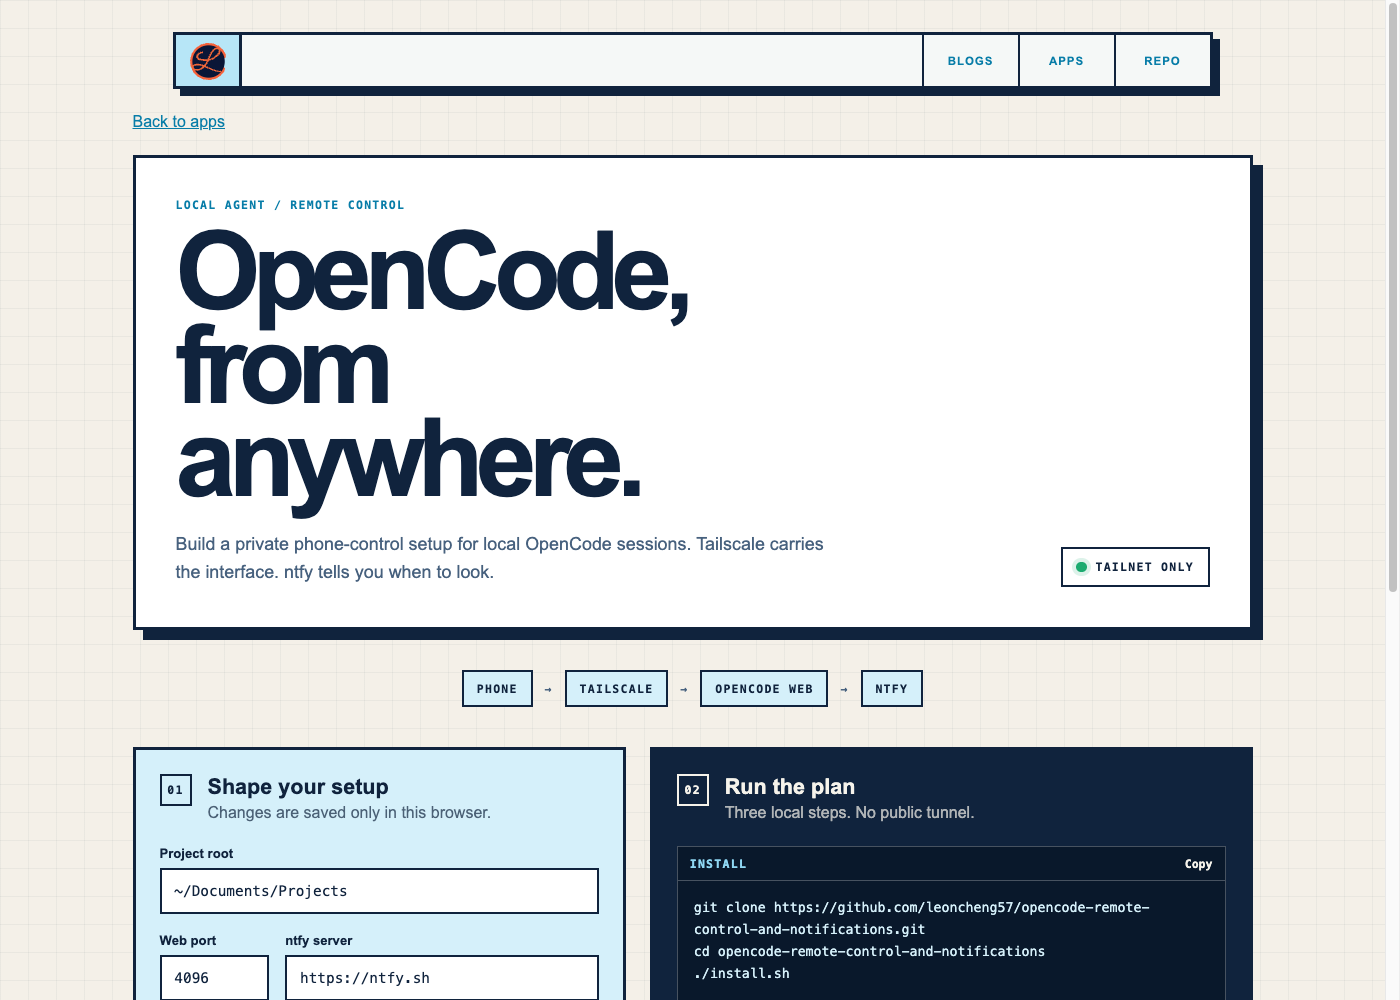
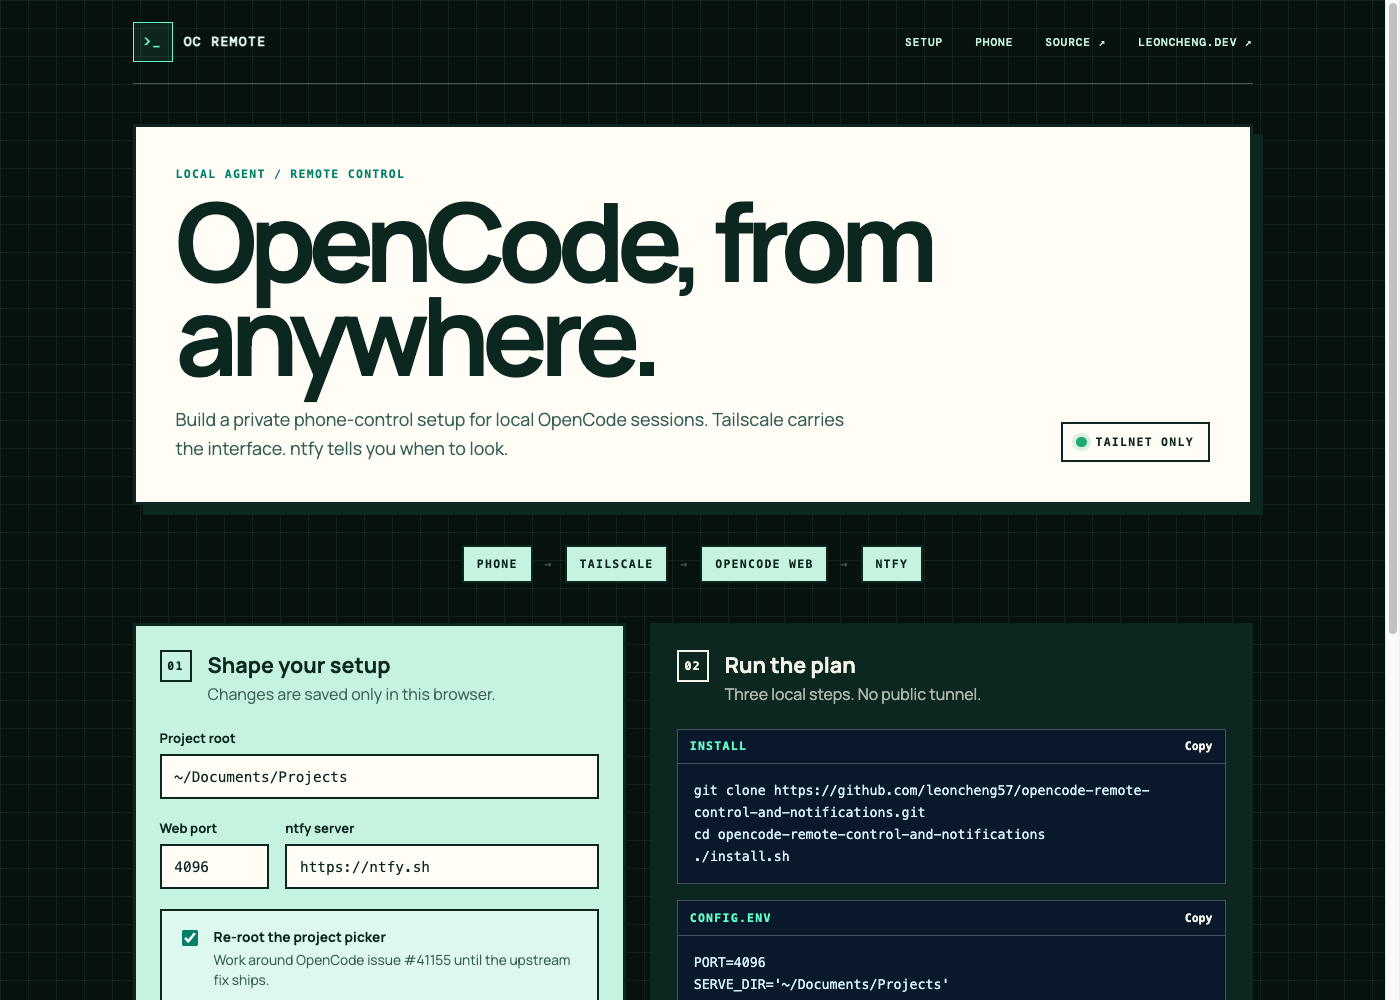
style: give OpenCode remote app its own product shell

diff --git a/src/features/apps/opencode-remote-control/opencode-remote-control.module.css b/src/features/apps/opencode-remote-control/opencode-remote-control.module.css
@@ -1,11 +1,26 @@
+@import url('https://fonts.googleapis.com/css2?family=DM+Mono:wght@400;500&family=Manrope:wght@400;600;700;800&display=swap');
+
 .page {
+  --bg: #07110e;
+  --surface: #f5f1e7;
+  --surface-raised: #fffdf6;
+  --text-primary: #0c2620;
+  --text-muted: #355e54;
+  --hr-color: #0c2620;
+  --link-color: #007f69;
+  --link-hover-color: #005f50;
+  --accent-soft: #c5f3df;
+  --accent-mid: #73dfbd;
+  --accent-strong: #5fffc9;
   min-height: 100vh;
-  padding: 2rem 1rem 5rem;
+  padding: 0 1rem 5rem;
   background:
-    linear-gradient(rgba(16, 35, 61, 0.045) 1px, transparent 1px),
-    linear-gradient(90deg, rgba(16, 35, 61, 0.045) 1px, transparent 1px),
+    linear-gradient(rgba(197, 243, 223, 0.07) 1px, transparent 1px),
+    linear-gradient(90deg, rgba(197, 243, 223, 0.07) 1px, transparent 1px),
     var(--bg);
   background-size: 28px 28px;
+  color: var(--text-primary);
+  font-family: 'Manrope', sans-serif;
 }
 
 .page a {
@@ -17,8 +32,55 @@
   margin: 0 auto;
 }
 
-.backLink {
-  margin: 1.5rem 0;
+.productNav {
+  position: relative;
+  z-index: 2;
+  display: flex;
+  align-items: center;
+  justify-content: space-between;
+  width: min(100%, 70rem);
+  margin: 0 auto;
+  padding: 1.35rem 0;
+  border-bottom: 1px solid rgba(197, 243, 223, 0.32);
+  color: #e9fff6;
+}
+
+.brand {
+  display: flex;
+  gap: 0.7rem;
+  align-items: center;
+  color: #e9fff6 !important;
+  font: 800 0.82rem 'DM Mono', monospace;
+  letter-spacing: 0.1em;
+  text-decoration: none;
+}
+
+.brandMark {
+  display: grid;
+  width: 2.5rem;
+  height: 2.5rem;
+  border: 1px solid var(--accent-strong);
+  background: rgba(95, 255, 201, 0.08);
+  color: var(--accent-strong);
+  place-items: center;
+}
+
+.navLinks {
+  display: flex;
+  gap: clamp(0.8rem, 3vw, 2rem);
+  font: 500 0.7rem 'DM Mono', monospace;
+  letter-spacing: 0.08em;
+  text-transform: uppercase;
+}
+
+.navLinks a {
+  color: #c5f3df;
+  text-decoration: none;
+}
+
+.navLinks a:hover,
+.navLinks a:focus-visible {
+  color: var(--accent-strong);
 }
 
 .hero {
@@ -27,6 +89,7 @@
   gap: 2rem;
   align-items: end;
   padding: 2.5rem;
+  margin-top: 2.5rem;
   border: 3px solid var(--hr-color);
   background: var(--surface-raised);
   box-shadow: 10px 10px 0 var(--text-primary);
@@ -309,7 +372,26 @@
 
 @media (max-width: 760px) {
   .page {
-    padding: 1rem 0.75rem 3rem;
+    padding: 0 0.75rem 3rem;
+  }
+
+  .productNav {
+    align-items: flex-start;
+    padding: 1rem 0;
+  }
+
+  .brand > span:last-child {
+    display: none;
+  }
+
+  .navLinks {
+    flex-wrap: wrap;
+    justify-content: flex-end;
+    max-width: 16rem;
+  }
+
+  .navLinks a:nth-child(3) {
+    display: none;
   }
 
   .hero {

diff --git a/src/features/apps/opencode-remote-control/routes/OpenCodeRemoteControlRoute.tsx b/src/features/apps/opencode-remote-control/routes/OpenCodeRemoteControlRoute.tsx
@@ -1,6 +1,5 @@
 import { useEffect, useState, type ReactElement } from 'react'
 import { Link } from 'react-router-dom'
-import TopNav from '../../../../components/top-nav/TopNav'
 import styles from '../opencode-remote-control.module.css'
 
 const STORAGE_KEY = 'opencode-remote-control-settings-v1'
@@ -72,6 +71,14 @@ export default function OpenCodeRemoteControlRoute(): ReactElement {
   const [settings, setSettings] = useState<Settings>(loadSettings)
 
   useEffect(() => {
+    const previousTitle = document.title
+    document.title = 'OpenCode Remote Control'
+    return () => {
+      document.title = previousTitle
+    }
+  }, [])
+
+  useEffect(() => {
     try {
       window.localStorage.setItem(STORAGE_KEY, JSON.stringify(settings))
     } catch {
@@ -100,11 +107,21 @@ export default function OpenCodeRemoteControlRoute(): ReactElement {
 
   return (
     <div className={styles.page}>
-      <TopNav />
-      <main className={styles.main}>
-        <p className={styles.backLink}>
-          <Link to="/apps">Back to apps</Link>
-        </p>
+      <header className={styles.productNav}>
+        <a className={styles.brand} href="#top" aria-label="OpenCode Remote Control home">
+          <span className={styles.brandMark} aria-hidden="true">
+            &gt;_
+          </span>
+          <span>OC REMOTE</span>
+        </a>
+        <nav className={styles.navLinks} aria-label="OpenCode Remote Control navigation">
+          <a href="#builder">Setup</a>
+          <a href="#phone">Phone</a>
+          <a href={REPOSITORY_URL}>Source ↗</a>
+          <Link to="/apps">LeonCheng.dev ↗</Link>
+        </nav>
+      </header>
+      <main className={styles.main} id="top">
 
         <header className={styles.hero}>
           <div>
@@ -131,7 +148,7 @@ export default function OpenCodeRemoteControlRoute(): ReactElement {
           <span>NTFY</span>
         </section>
 
-        <div className={styles.workspace}>
+        <div className={styles.workspace} id="builder">
           <section className={styles.controls}>
             <div className={styles.sectionHeading}>
               <span>01</span>
@@ -209,7 +226,7 @@ export default function OpenCodeRemoteControlRoute(): ReactElement {
           </section>
         </div>
 
-        <section className={styles.notes}>
+        <section className={styles.notes} id="phone">
           <article>
             <span>03 / PHONE</span>
             <h2>Subscribe, then scan.</h2>
